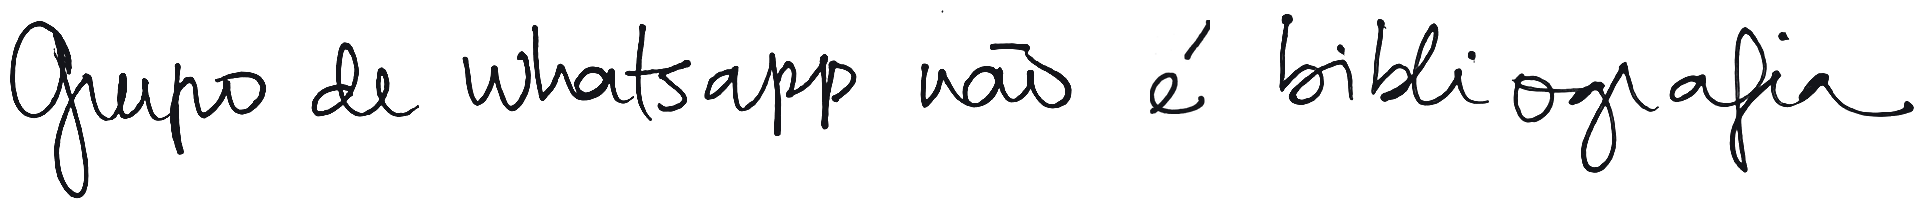
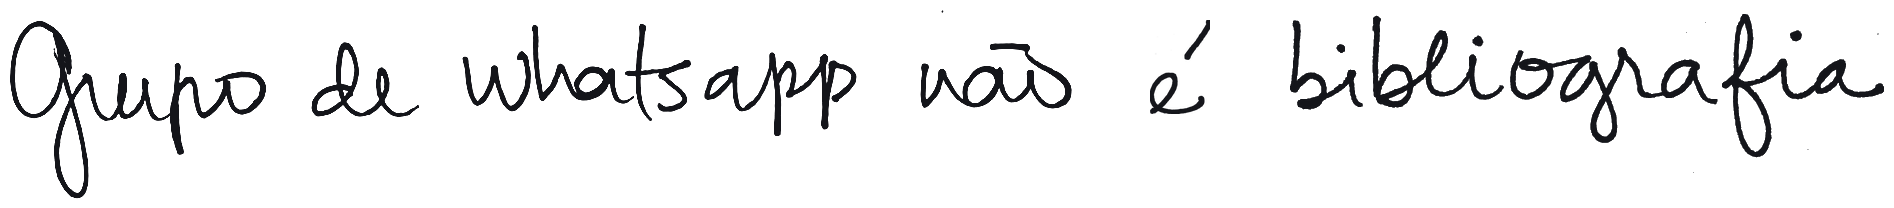
Nota à mão com bibliografia nova; Números sem linhas e semanas em gráficos (Roberta, 19/11)

diff --git a/numeros/index.html b/numeros/index.html
@@ -52,8 +52,10 @@ document.getElementById("ig").innerHTML=tile(t.views,"visualizações "+per)+til
 document.getElementById("alcance").innerHTML=colunas(d.alcance.filter(x=>x.dia>="2026-10-17").map(x=>[x.dia,x.valor]),"contas alcançadas");
 const sem=s=>{const m={};s.forEach(([dd,v])=>{const k=Math.floor((Date.parse(dd+"T00:00Z")-NASC)/6048e5);if(k>=0)m[k]=(m[k]||0)+v});return m};
 const aS=sem(d.alcance.map(x=>[x.dia,x.valor])),cS=sem(d.por_dia),fS=sem((d.seguidores_serie||[]).map(x=>[x.dia,x.valor])),kS=sem(Object.entries(d.cliques_whatsapp||{})),tot=Math.floor(dias/7);
-const lin=[];for(let k=0;k<=tot;k++){const ini=new Date(NASC+k*6048e5),fim=new Date(NASC+(k*7+6)*864e5),f=x=>x.toISOString().slice(0,10);lin.push(`<tr><td>${dm(f(ini))} a ${dm(f(fim))}${k===tot?" (em andamento)":""}</td><td>${N(aS[k]||0)}</td><td>${N(fS[k]||0)}</td><td>${N(cS[k]||0)}</td><td>${f(fim)<"2026-11-01"?"—":N(kS[k]||0)}</td></tr>`)}
-document.getElementById("semanas").innerHTML=`<div style="overflow-x:auto"><table style="width:100%;border-collapse:collapse;font-size:clamp(12px,3.4vw,15px);margin-top:10px"><thead><tr style="text-align:left"><th>Semana</th><th>Alcance</th><th>Seguidores</th><th>Consultas</th><th>WhatsApp pelo site</th></tr></thead><tbody>${lin.join("")}</tbody></table></div><p class="fontes">Alcance: contas alcançadas, somando os dias; a mesma conta conta de novo em outro dia. Seguidores: novos na semana. WhatsApp pelo site: acessos ao WhatsApp pelo botão do site, contados desde 01/11/2026 (o traço indica semana anterior à contagem). Não inclui quem chega ao WhatsApp por outros caminhos nem o número de consultas.</p>`;
+const semanas=[];for(let k=0;k<=tot;k++){const ini=new Date(NASC+k*6048e5),fim=new Date(NASC+(k*7+6)*864e5),f=x=>x.toISOString().slice(0,10);semanas.push({k,rot:dm(f(ini)),fim:f(fim)})}
+const mini=(tit,sub,m,antes)=>{const v=semanas.map(s=>antes&&s.fim<antes?null:(m[s.k]||0)),mx=Math.max(1,...v.map(x=>x||0));
+return `<div class="mini"><p class="tit">${tit}</p><p class="sub">${sub}</p><div class="barras">${semanas.map((s,i)=>`<div class="col"><em>${v[i]===null?"—":N(v[i])}</em><i class="${s.k===tot?"and":""}" style="height:${v[i]===null?0:Math.max(2,100*v[i]/mx)}%"></i><small>${s.rot}</small></div>`).join("")}</div></div>`};
+document.getElementById("semanas").innerHTML=`<div class="minis">${mini("Alcance","contas alcançadas na semana",aS)}${mini("Novos seguidores","na semana",fS)}${mini("Consultas ao robô","na semana",cS)}${mini("WhatsApp pelo site","acessos pelo botão, desde 01/11",kS,"2026-11-01")}</div><p class="sub" style="margin-top:14px">A barra listrada é a semana em andamento. Cada semana começa no dia indicado.</p><p class="fontes">Alcance: contas alcançadas, somando os dias; a mesma conta conta de novo em outro dia. Seguidores: novos na semana. WhatsApp pelo site: acessos ao WhatsApp pelo botão do site, contados desde 01/11/2026 (o traço indica semana anterior à contagem). Não inclui quem chega ao WhatsApp por outros caminhos nem o número de consultas.</p>`;
 const corta=s=>s.length<90?s:s.slice(0,s.lastIndexOf(" "))+"…";
 document.getElementById("top").innerHTML=d.top.map(p=>`<a href="${esc(p.link)}"><img src="capas/${esc(p.link.replace(/\/$/,"").split("/").pop())}.jpg" alt="${esc(p.titulo||"Post")}" loading="lazy" width="600" height="800"><span>${N(p.views)}</span></a>`).join("")+`<p class="fontes">Visualizações por post. Toque na capa para abrir no Instagram.</p>`;
 document.getElementById("cons").innerHTML=tile(d.total_publico,"consultas desde 20/10")+tile(c.instagram||0,"no direct")+tile(c.whatsapp||0,"no WhatsApp, desde 26/10")+tile(c.comentario||0,"nos comentários");

diff --git a/estilo.css b/estilo.css
@@ -240,3 +240,14 @@ footer p{margin:0}footer a{color:var(--corpo);text-decoration:none;margin-left:1
 /* Quadro dos números mais limpo (Roberta, 19/11: "tá poluído") */
 .contagem>div>span{font:400 16px/1.35 var(--sans);letter-spacing:0;text-transform:none;color:var(--cinza);margin-top:6px}
 .rod-q{font:400 14px var(--sans);color:#8A8E99;margin:16px 0 0}.rod-q a{color:var(--cinza)}
+/* Números: sem as linhas em cima dos números, legendas leves, semanas em gráficos pequenos (Roberta, 19/11) */
+.grande-n>div{border-top:0}
+.grande-n span{font:400 16px/1.35 var(--sans);letter-spacing:0;text-transform:none;color:var(--cinza);margin-top:6px}
+.minis{display:grid;grid-template-columns:repeat(auto-fit,minmax(min(240px,100%),1fr));gap:28px;margin-top:14px}
+.minis .tit{font-weight:700;margin:0}.minis .sub,#semanas .sub{font-size:14px;color:#8A8E99;margin:0 0 10px}
+.barras{display:flex;gap:8px;align-items:flex-end;height:160px}
+.barras .col{flex:1;display:flex;flex-direction:column;align-items:center;justify-content:flex-end;height:100%;min-width:0}
+.barras i{display:block;width:100%;background:var(--tinta);border-radius:3px 3px 0 0}
+.barras i.and{background:repeating-linear-gradient(135deg,var(--tinta) 0 3px,var(--papel) 3px 6px);border:1.5px solid var(--tinta)}
+.barras small{font-size:12px;color:#8A8E99;margin-top:4px;white-space:nowrap}
+.barras em{font-style:normal;font-size:13px;font-weight:600;margin-bottom:3px;white-space:nowrap}
